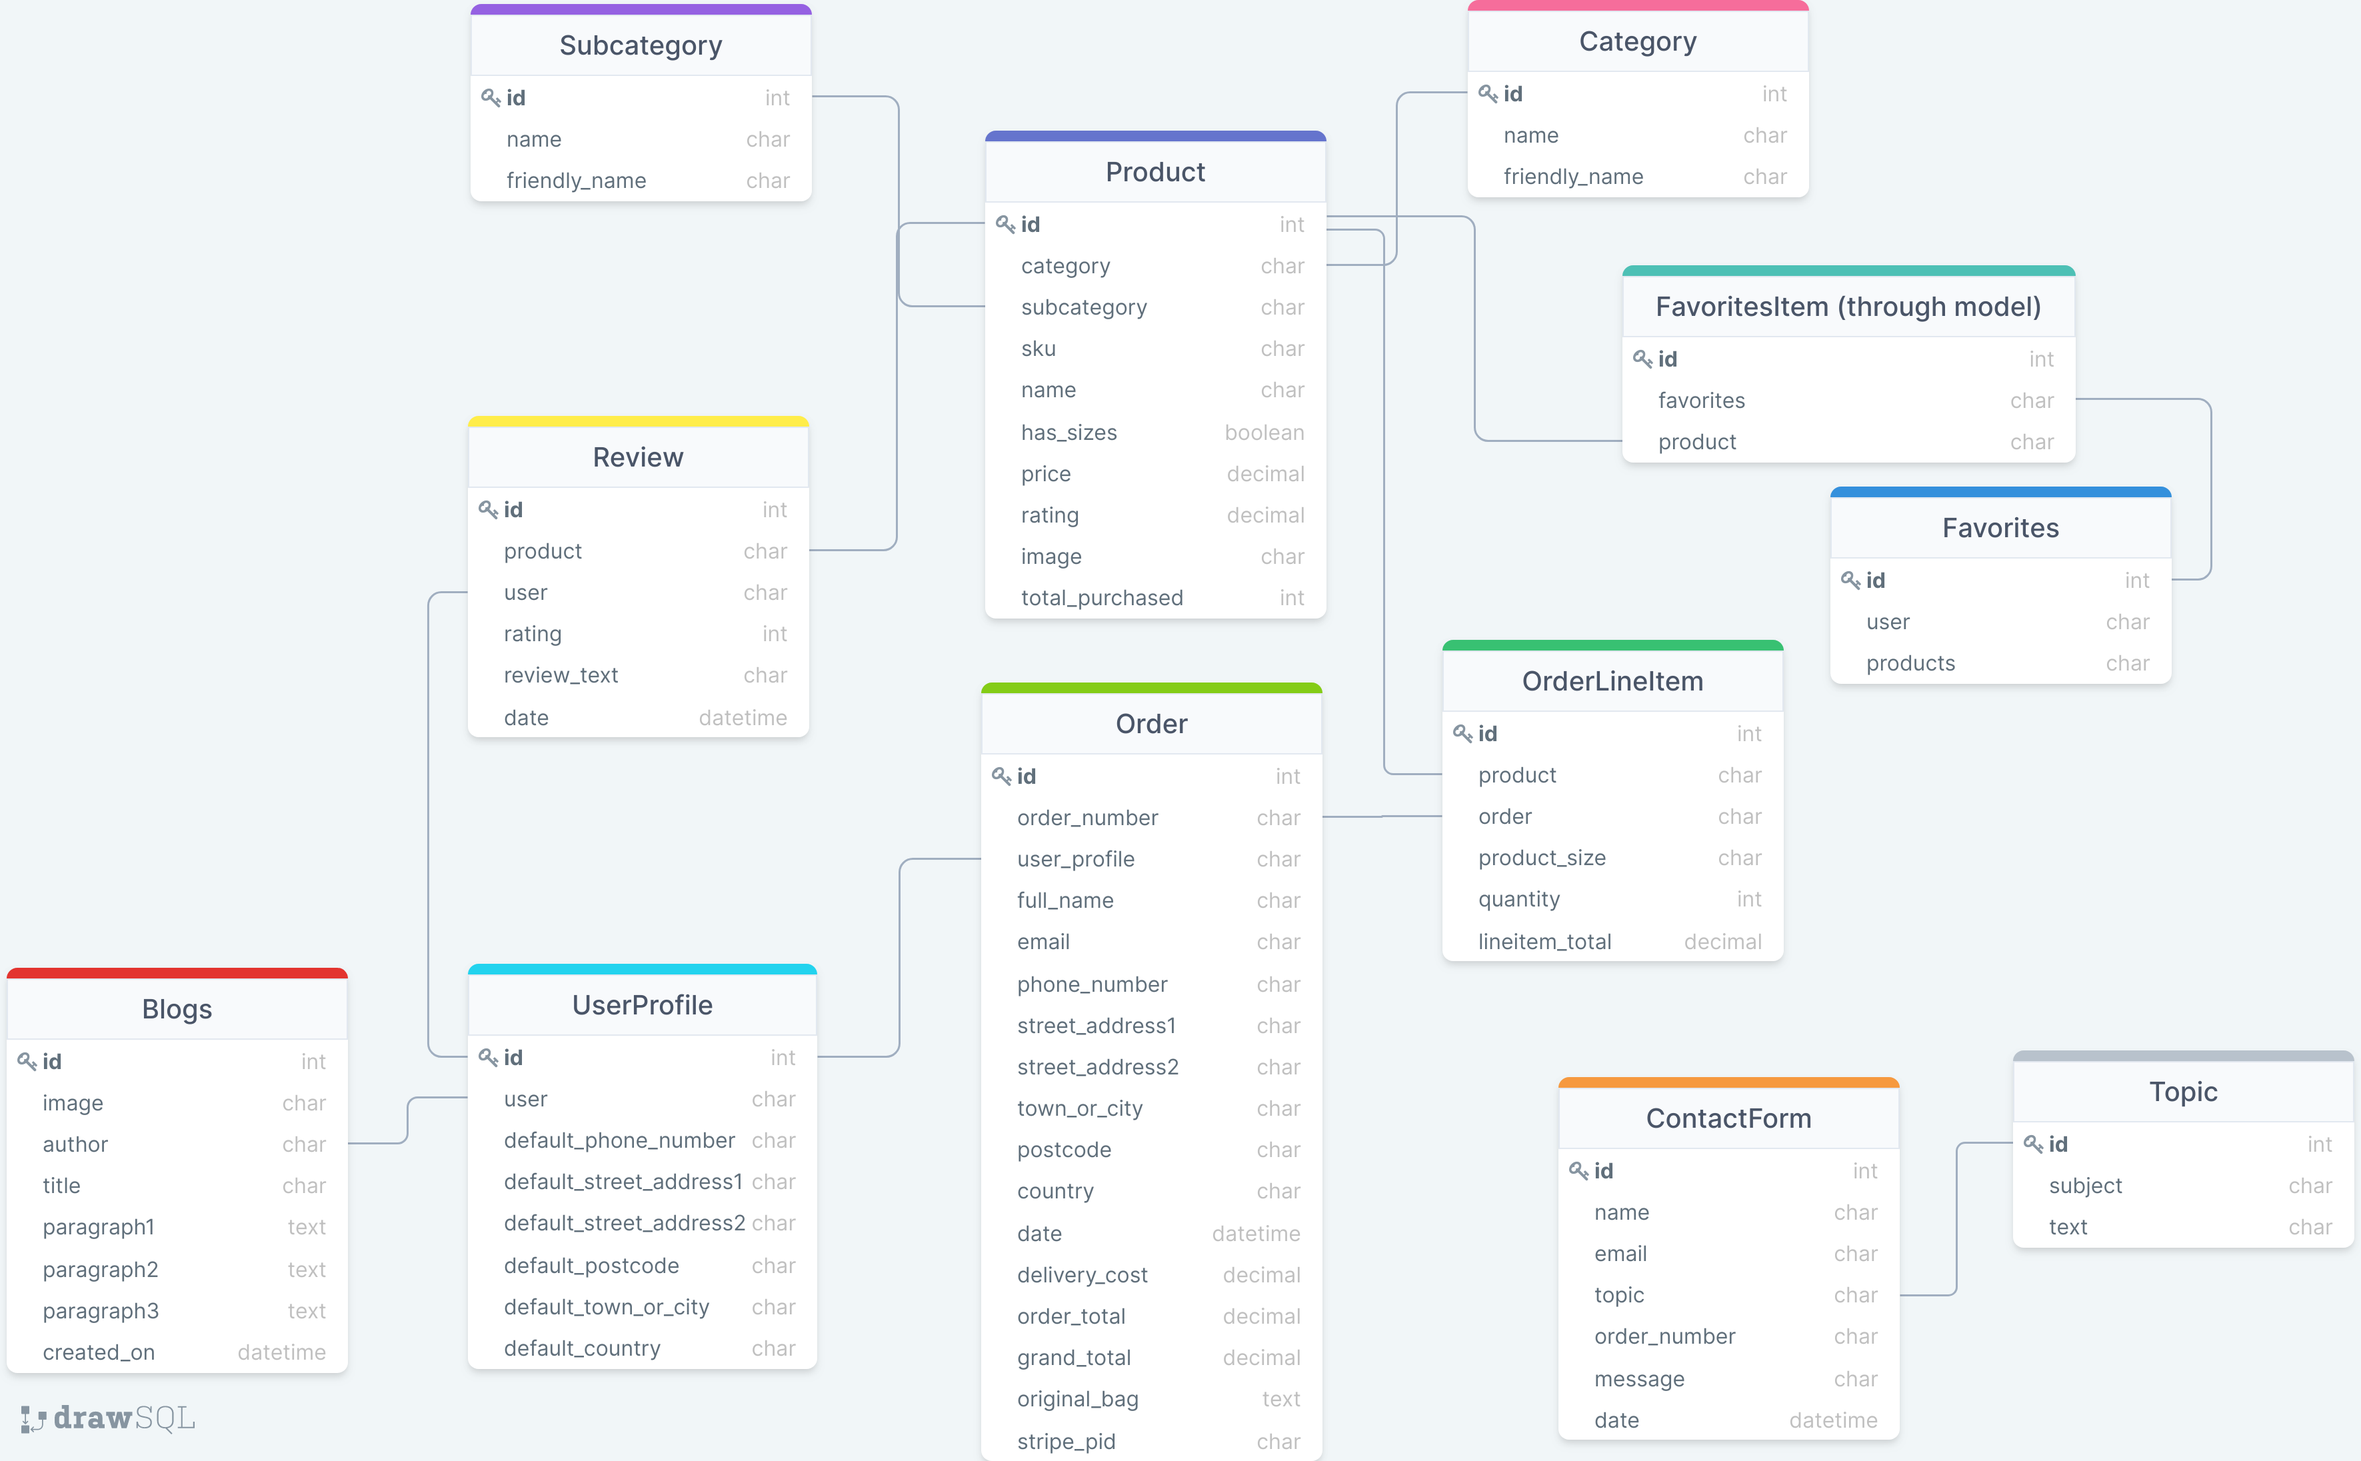
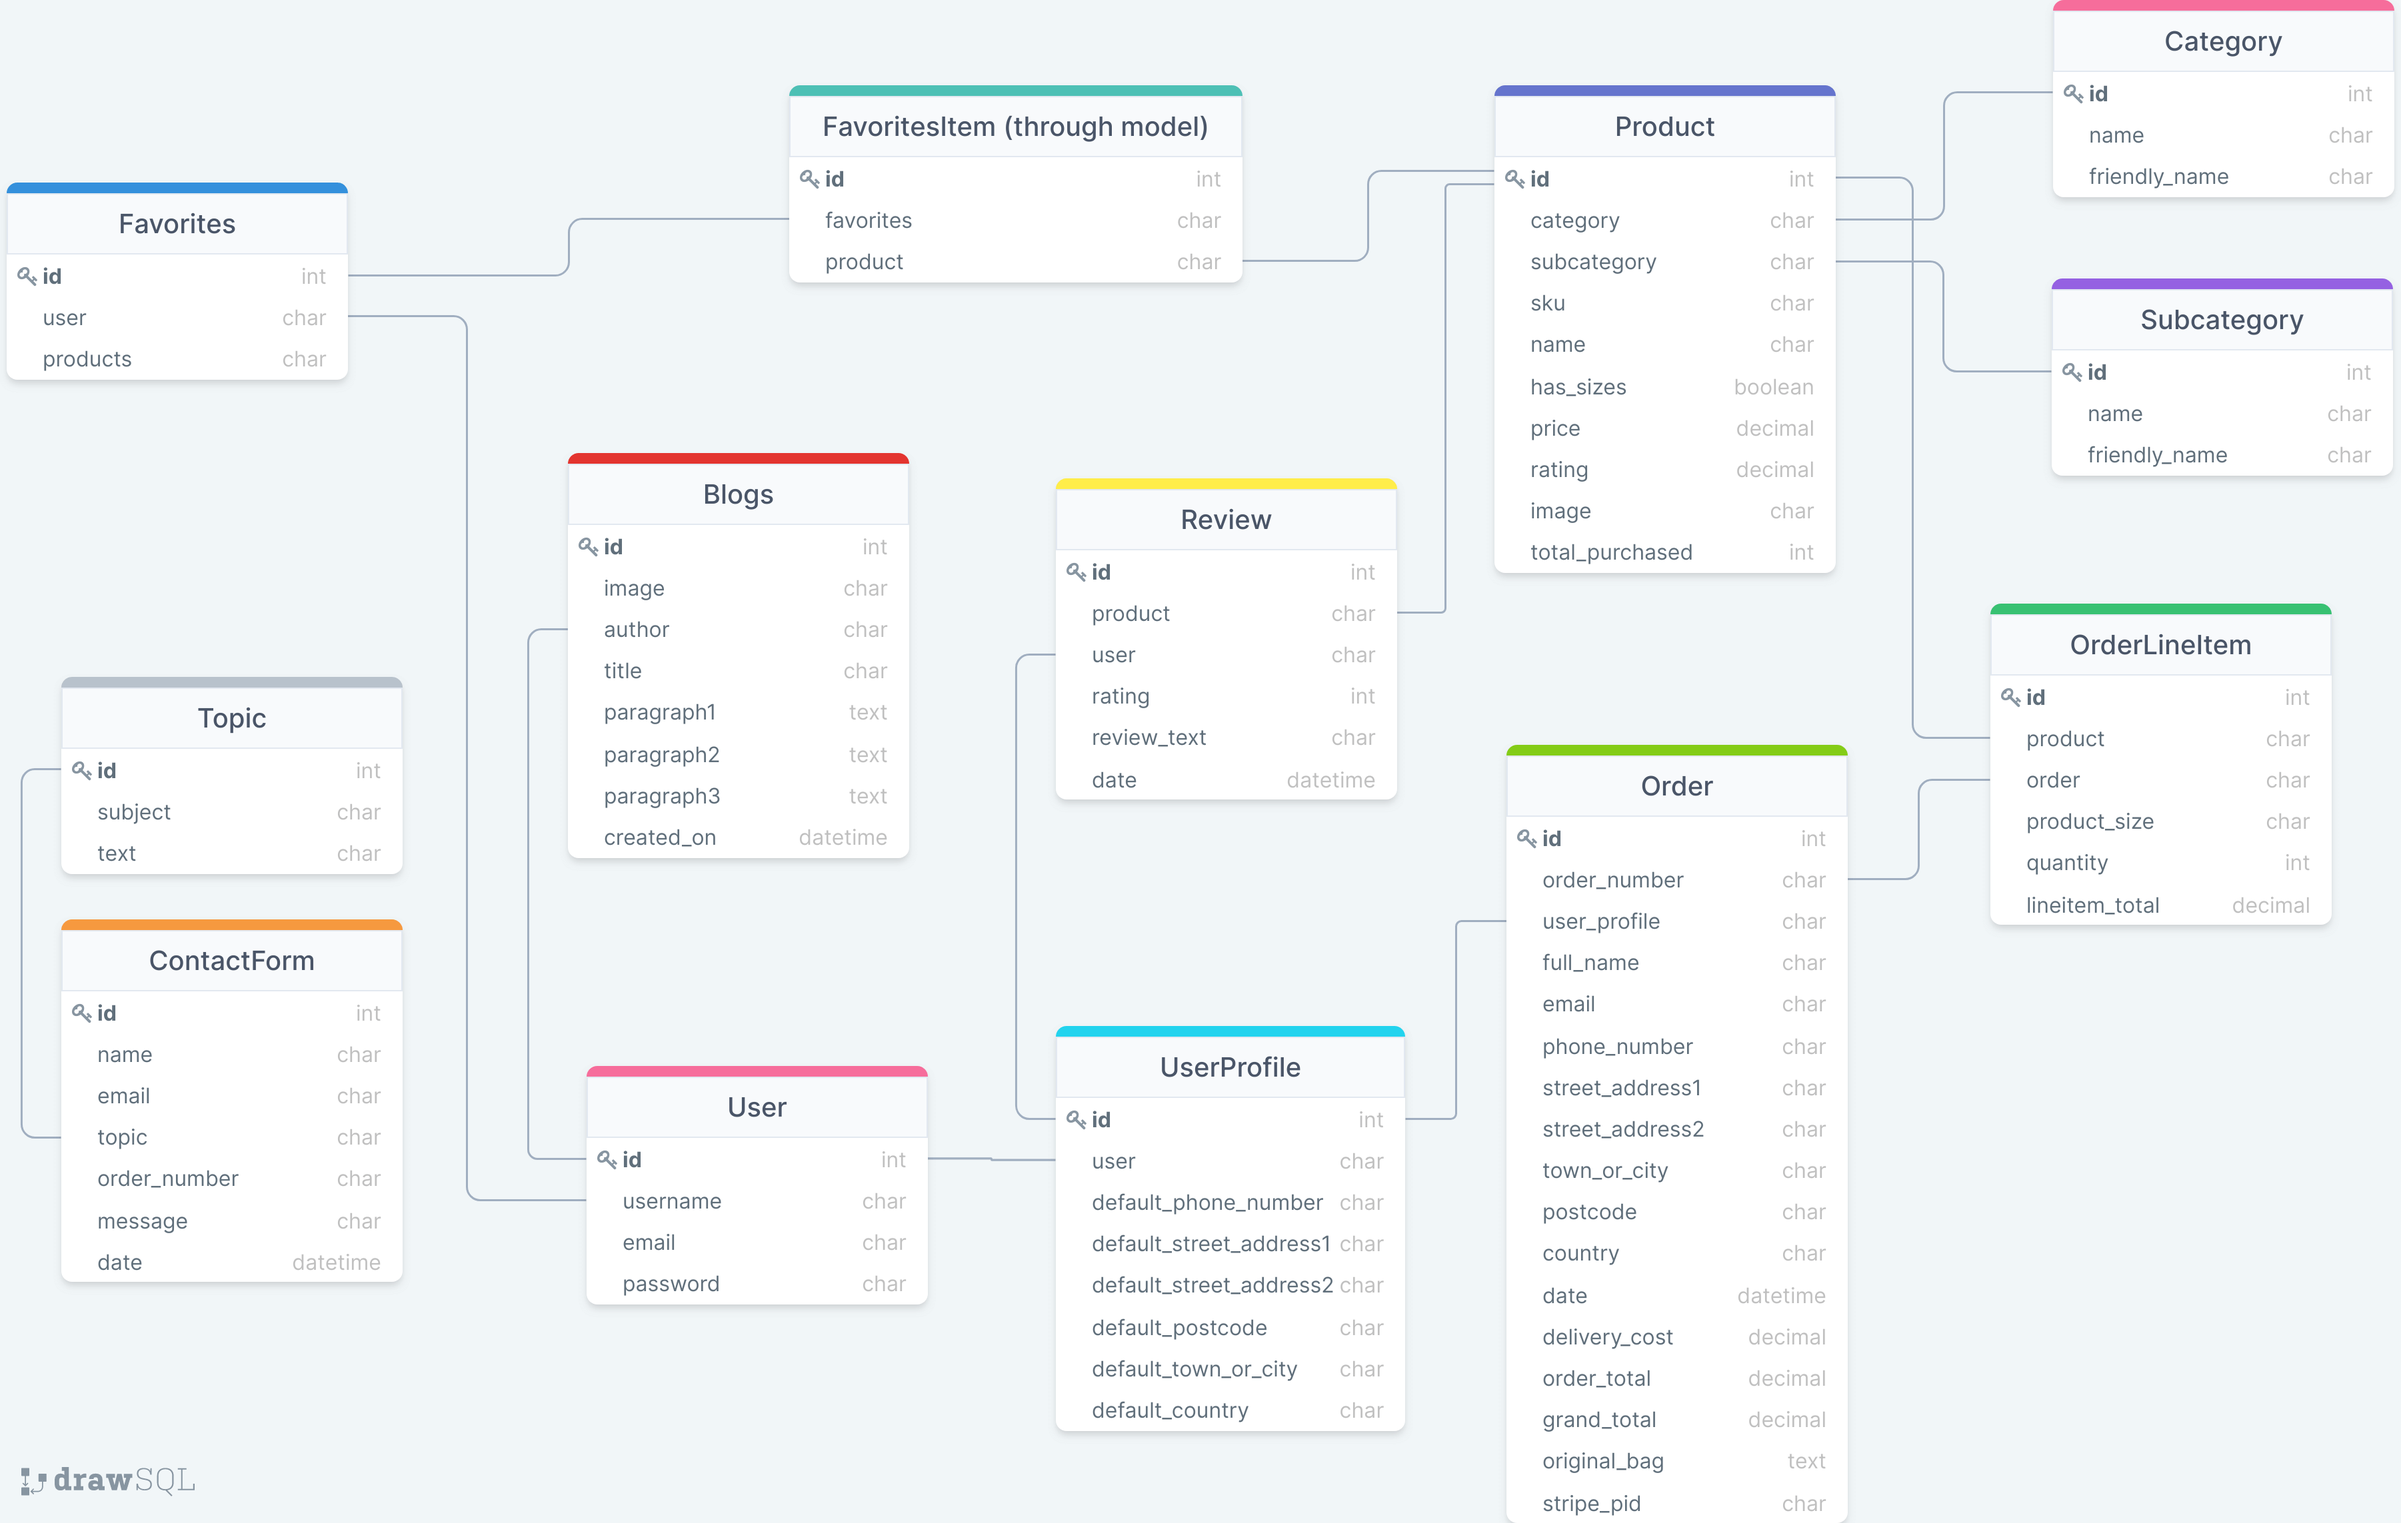
Add database design to readme

diff --git a/README.md b/README.md
@@ -191,10 +191,120 @@ All of the fonts were sourced from [Google Fonts](https://fonts.google.com).
 
 #### **Design Changes on The Final Product**  
 While I relied heavily on these Wireframes in order to maintain the desired design, there are several differences between the Mockups and the final product:
-- I changed the logo to become thicker and easier to spot, as the logo in the mockups was too thin and didn't look good on small devices.
+- I changed the logo to a new one that's thicker and easier to spot, as the previous logo in the mockups was too thin and didn't look good on small devices.
 - In the wireframes and mockups, there was a subscription to the newsletter box. I decided not to include this subscription to the newsletter functionality on the final product due to time constraint. 
-- Minor things like buttons colors and image difference were purely design choices that was taken during with the website development.
+- Minor things like buttons colors and image difference were purely design choices that was taken during with the website development. 
+- I added 
 
-#### **Database Structure**   
-Database schema was designed using [drawsql](https://drawsql.app/).  
+<br/>  
+
+## **Database Design**    
+
+Database schema was designed using [drawsql](https://drawsql.app/). The database was first managed using SQLite during the development process, then Postgres in production with Heroku. 
 ![The database schema](readme-testing-files/readme/database-schema.png " The database schema")  
+
+- **Category model**   
+   - Stores category name for a product. The categories in this case are Women, Men, and Kids.
+   - Name field: the name used for database purpose.
+   - Friendly_name field: the name used for display.
+
+- **Subcategory model**
+   - Stores subcategory name for a product. The subcategories in the database are Sandals, Sneakers, Oxfords, Heels, Boots, Mules, Flats, Outdoors, Loafers, Slippers, Sale, Accessories, and New Arrivals.  
+   - The Category model and Subcategory model have no relationship. I decided not to define a relationship/ pairing between them to make it more flexible. Both are fully independent of each other.  
+   - Name field: the name used for database purpose.
+   - Friendly_name field: the name used for display.  
+   
+- **Product model**  
+   - Stores detailed information about a product.
+   - Category field: the category of the product, a foreign key from Category model.
+   - Subcategory field: the subcategory of the product, a foreign key from Subcategory model. 
+   - Sku field: alpha numeric code assigned for a product.
+   - Name field: the name of the product, a required field.
+   - Has_sizes: has a boolean value - Yes for shoes, No for accessories.
+   - Price: the price of the product, a required field.
+   - Rating: the rating of the product. Each product has an initial rating value given by retailer based on its quality from manufacturer. The default value is 3. Each time a user gives a rating to the product, it calculates the average and update this field (read more about this on Feature section - Add Review)  
+   - Image: the image of the product.
+   - Total_purchased: the quantity of purchased for this product. The initial (default) value is 0. Each time a user purchases the product, the value also adds up.  
+
+- **User model**  
+   - Stores registration information of a user, the model was created as one of the components of Django's authentication system (more information on this, see [django.contrib.auth](https://docs.djangoproject.com/en/4.0/ref/contrib/auth/)). The fields include (but not limited to) username, email, and password.  
+
+- **Order model**
+   - Stores all information related to a successfully placed order.
+   - Order_number field: a unique order number generated automatically using UUID.
+   - User_profile field: the user that ordered, a foreign key from UserProfile model (if the user is registered).
+   - Full_name field: the full name of the buyer.
+   - Email field: the email address of the buyer.
+   - Phone_number: the phone number of the buyer.
+   - Street_address1: the first line of street address of the buyer.
+   - Street_address2: the second line of street address of the buyer.
+   - Town_or_city: the town or city name of the buyer.
+   - Postcode: the postcode of the buyer.
+   - Country: the country of the buyer.
+   - Date: the date of purchase.
+   - Delivery_cost: the delivery cost of the transaction.
+   - Order_total: the total price of order (the total of quantity times individual product price).
+   - Grand_total: the order_total + delivery_cost.
+   - Original_bag: a json object of the products and sizes that were in the bag.
+   - Stripe_pid: a payment intent id from stripe for successfull order.
+
+- **OrderLineItem model**
+   - Stores order details of a product that have been purchased.
+   - Product field: the product ordered, a foreign key from Product model.
+   - Order field: the order number for this product ordered, a foreign key from Order model.
+   - Product_size field: the size of the product ordered.
+   - Quantity field: the quantity of the product ordered.
+   - Lineitem_total field: the quantity times the individual product price.  
+
+- **UserProfile model**
+   - Stores user's address information for registered user.
+   - User field: the user itself, a foreign key from User model.
+   - Default_phone_number field: the phone numbe of the user.
+   - Default_street_address1 field: the first line of street address of the user.
+   - Default_street_address2 field: the second line of street address of the user.
+   - Default_town_or_city field: the town or city name of the user.
+   - Default_postcode field: the postcode of the user.
+   - Default_country field: the country of the user.  
+
+- **Review model**  
+   - Stores user's review of products that the user had previously purchased.
+   - Product field: the reviewed product, a foreign key from Product model.
+   - User field: the user itself, a foreign key from UserProfile.
+   - Rating: the rating that the user gave for the product.
+   - Review_text: the review that the user gave for the product.
+   - Date: the date it was created.
+
+- **Blog model**  
+   - Stores articles/ blogs for the website.
+   - Image field: the image for the article.  
+   - Author field: the author of the article, a foreign key from User model.
+   - Title field: the title for the article.
+   - Paragraph1: the first paragraph for the article.
+   - Paragraph2: the second paragraph for the article.
+   - Paragraph3: the third paragraph for the article.
+   - Created_on: the data it was created.  
+
+- **Favorites model**  
+   - Stores list of favorites products of a registered user.
+   - User: the user that created the favorites list, a foreign key from User model.
+   - Products field: the list of products.  
+   - Because there would be a many to many relationship between favorites and products, i.e. one product can be listed in multiple (users) favorites , and one favorites can have multiple of products, I decided to define a through/ intermediary model between the two models ([source from django documentation](https://docs.djangoproject.com/en/4.0/ref/models/fields/#django.db.models.ManyToManyField.through_fields)). The through model named  **FavoritesItem model**, which stores each product in one table with favorites as a foreign key.  
+
+- **Topic model**
+  - Stores the topics of contact form. 
+  - Subject field: a one-word name for database purposes.
+  - Text field: a longer name for display on the contact form.
+  - I decided to make this into separate model instead of a choice field, because I wanted to define a separate naming fields for database and for display.
+
+- **ContactForm model**
+  - Stores the contact form filled by the user.
+  - Name field: the name of the user.
+  - Email field: the email of the user.
+  - Topic field: the topic of the message, a foreign key from Topic model.
+  - Order_number: the order number if the user has it. Filled manually by the user.
+  - Message: the message in the form.
+  - Date: the date it was sent.  
+
+  
+
+   
